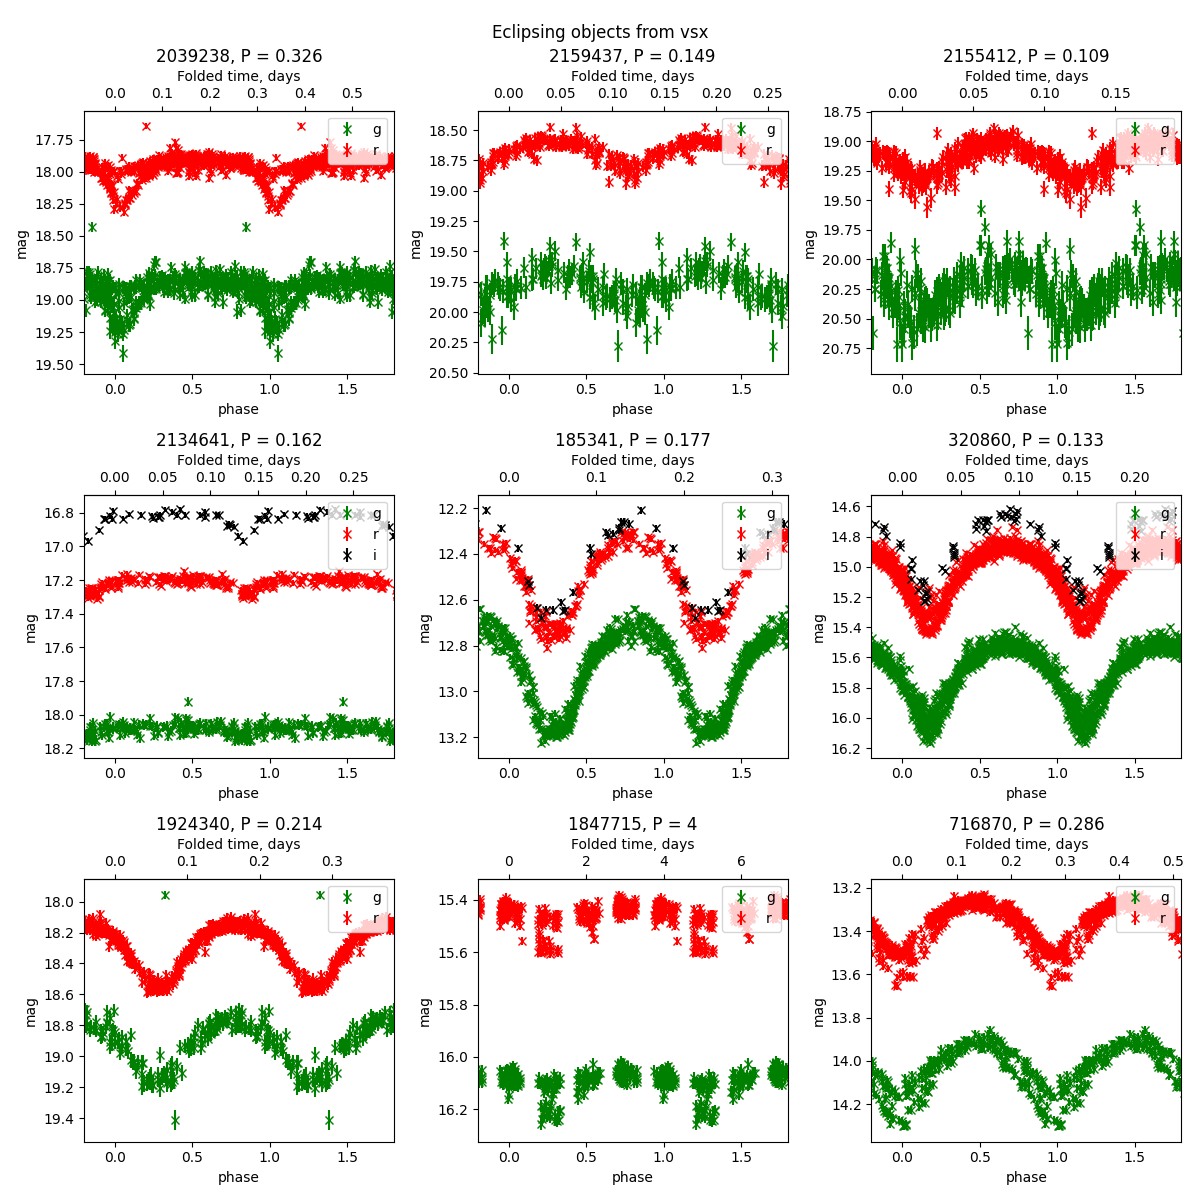
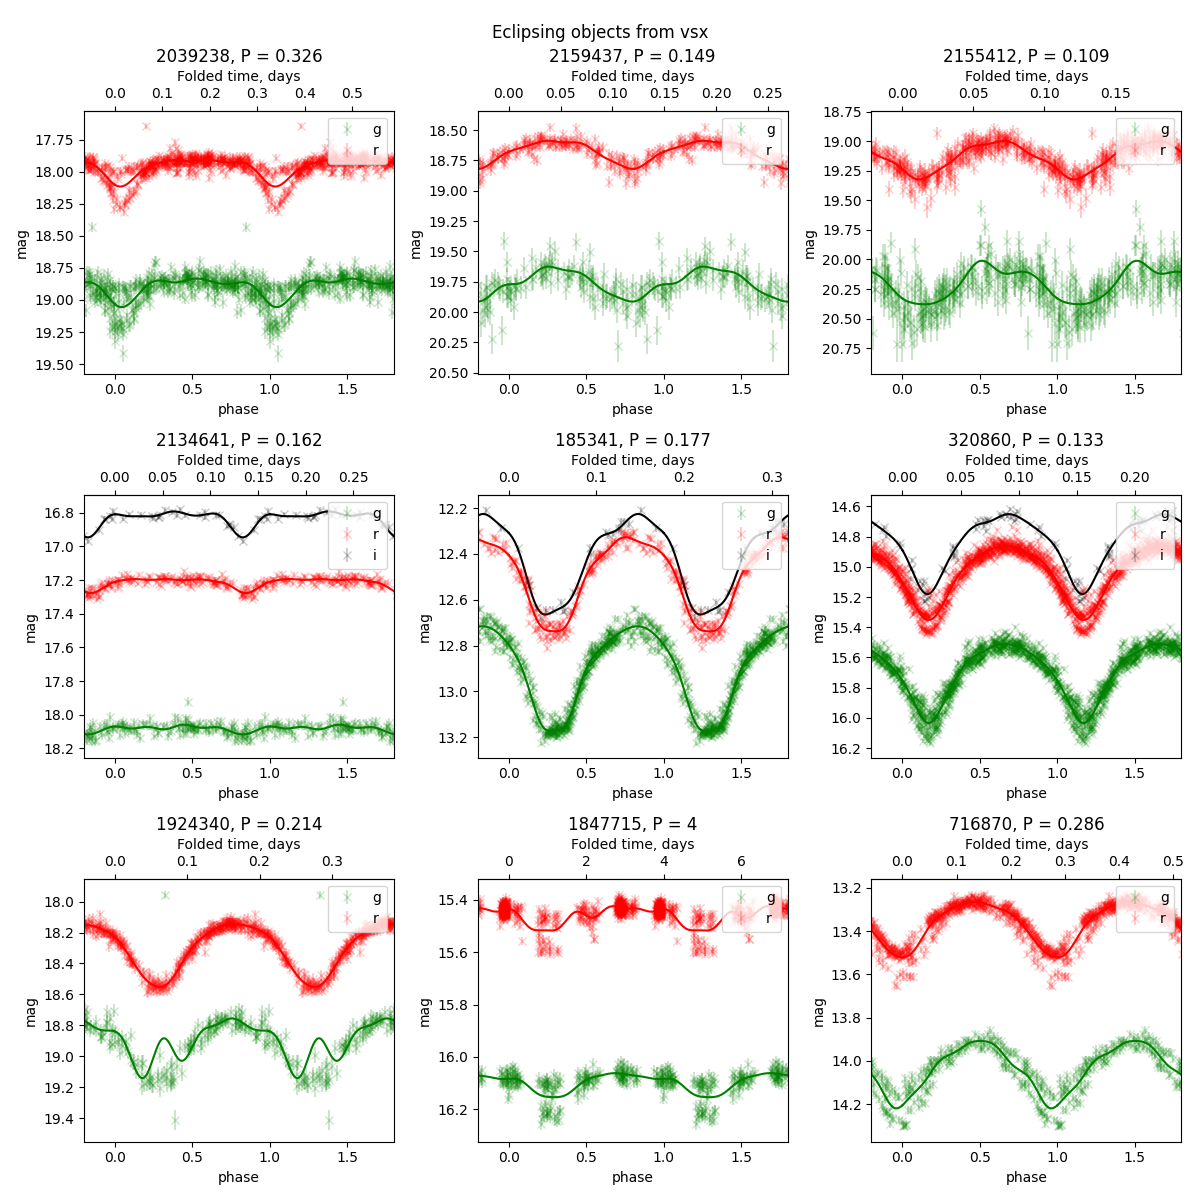
Approximate folded lc with GP

diff --git a/ch_vars/plot.py b/ch_vars/plot.py
@@ -7,8 +7,9 @@ from copy import copy
 from functools import partial, reduce
 from itertools import chain
 from operator import and_
-from typing import Callable, Dict, Optional, Union
+from typing import Callable, Optional, Union
 
+import george
 import matplotlib; matplotlib.use('Agg')
 import matplotlib.pyplot as plt
 import numpy as np
@@ -64,6 +65,7 @@ CATALOGS = {
         var_type_column=VarTypeColumn('asassn_type'),
         periodic_types={
             'M': PeriodRange(min_period=50),
+            'RRAB': PeriodRange(min_period=0.05, max_period=5),
         }
     ),
     'vsx': Catalog(
@@ -104,6 +106,13 @@ COLORS = {
     3: 'black',
 }
 
+
+BAND_WAVELENGTHS = {
+    1: 4722.74,
+    2: 6339.61,
+    3: 7886.13,
+}
+
 VAR_TYPE_THRESHOLDS = (
     {1: 50, 2: 50, 3: 0},
     {1: 100, 2: 100, 3: 0},
@@ -120,10 +129,9 @@ def fold_lc(obj, period_range):
     lsmf.optimizer.period_range = period_range
     lsmf.fit(obj['mjd'], obj['mag'], obj['magerr'], obj['filter'])
     period = lsmf.best_period
-    folded_time = obj['mjd'] % period
-    phase = folded_time / period
-    records = copy(obj.item()) + (folded_time, phase, period)
-    dtype = obj.dtype.descr + [('folded_time', object), ('phase', object), ('period', float)]
+    phase = obj['mjd'] % period / period
+    records = copy(obj.item()) + (phase, period,)
+    dtype = obj.dtype.descr + [('phase', object), ('period', float)]
     folded = np.rec.fromrecords(records, dtype=dtype)
     return folded
 
@@ -261,6 +269,27 @@ def plot_lc(ax, obj, *, bands):
     ax.legend(loc='upper right')
 
 
+def approx_periodic(lc) -> Optional:
+    _, idx = np.unique(lc['phase'], return_index=True)
+    if idx.size < 10:
+        return None
+    phase = lc['phase'][idx]
+    mag = lc['mag'][idx]
+    magerr = lc['magerr'][idx]
+    mean = np.average(mag, weights=magerr**-2)
+    mag -= mean
+    kernel = george.kernels.ExpSine2Kernel(gamma=1.0, log_period=0.0)
+    # No fitting => no reason to freeze
+    # kernel.freeze_parameter('k2:log_period')
+    gp = george.GP(kernel)
+    gp.compute(phase, magerr)
+
+    def f(x):
+        return gp.predict(mag, x, return_cov=False, return_var=False) + mean
+
+    return f
+
+
 def plot_folded(ax, obj, *, bands):
     lcs = {band: {'phase': obj['phase'].item()[idx], 'mag': obj['mag'].item()[idx], 'magerr': obj['magerr'].item()[idx]}
            for band in bands
@@ -275,8 +304,15 @@ def plot_folded(ax, obj, *, bands):
             ax.errorbar(
                 lc['phase'] + repeat, lc['mag'], lc['magerr'],
                 ls='', marker='x', color=COLORS[band],
-                label=label,
+                label=label, alpha=0.2,
             )
+        spline = approx_periodic(lc)
+        if spline is None:
+            continue
+        ph = np.linspace(0, 1.0, 1024)
+        interp = spline(ph)
+        for repeat in range(-1, 2):
+            ax.plot(ph + repeat, interp, '-', color=COLORS[band], label='')
     ax.set_xlim([-0.2, 1.8])
     secax = ax.secondary_xaxis('top', functions=(lambda x: x * obj['period'], lambda x: x / obj['period']))
     secax.set_xlabel('Folded time, days')
@@ -314,7 +350,7 @@ def plot_lc_examples(table, catalog, fig_path, bands=tuple(BAND_NAMES), n_per_ty
         try:
             object_positions = rng.choice(positions, n_per_type, replace=False)
         except ValueError:
-            msg = f'n_per_object is {n_per_type} but there are only {positions.size} of objects of type {t}'
+            msg = f'n_per_type is {n_per_type} but there are only {positions.size} of objects of type {t}'
             logging.warning(msg)
             continue
         objects = table.iloc[object_positions].to_records().reshape(n_rows, n_columns)
